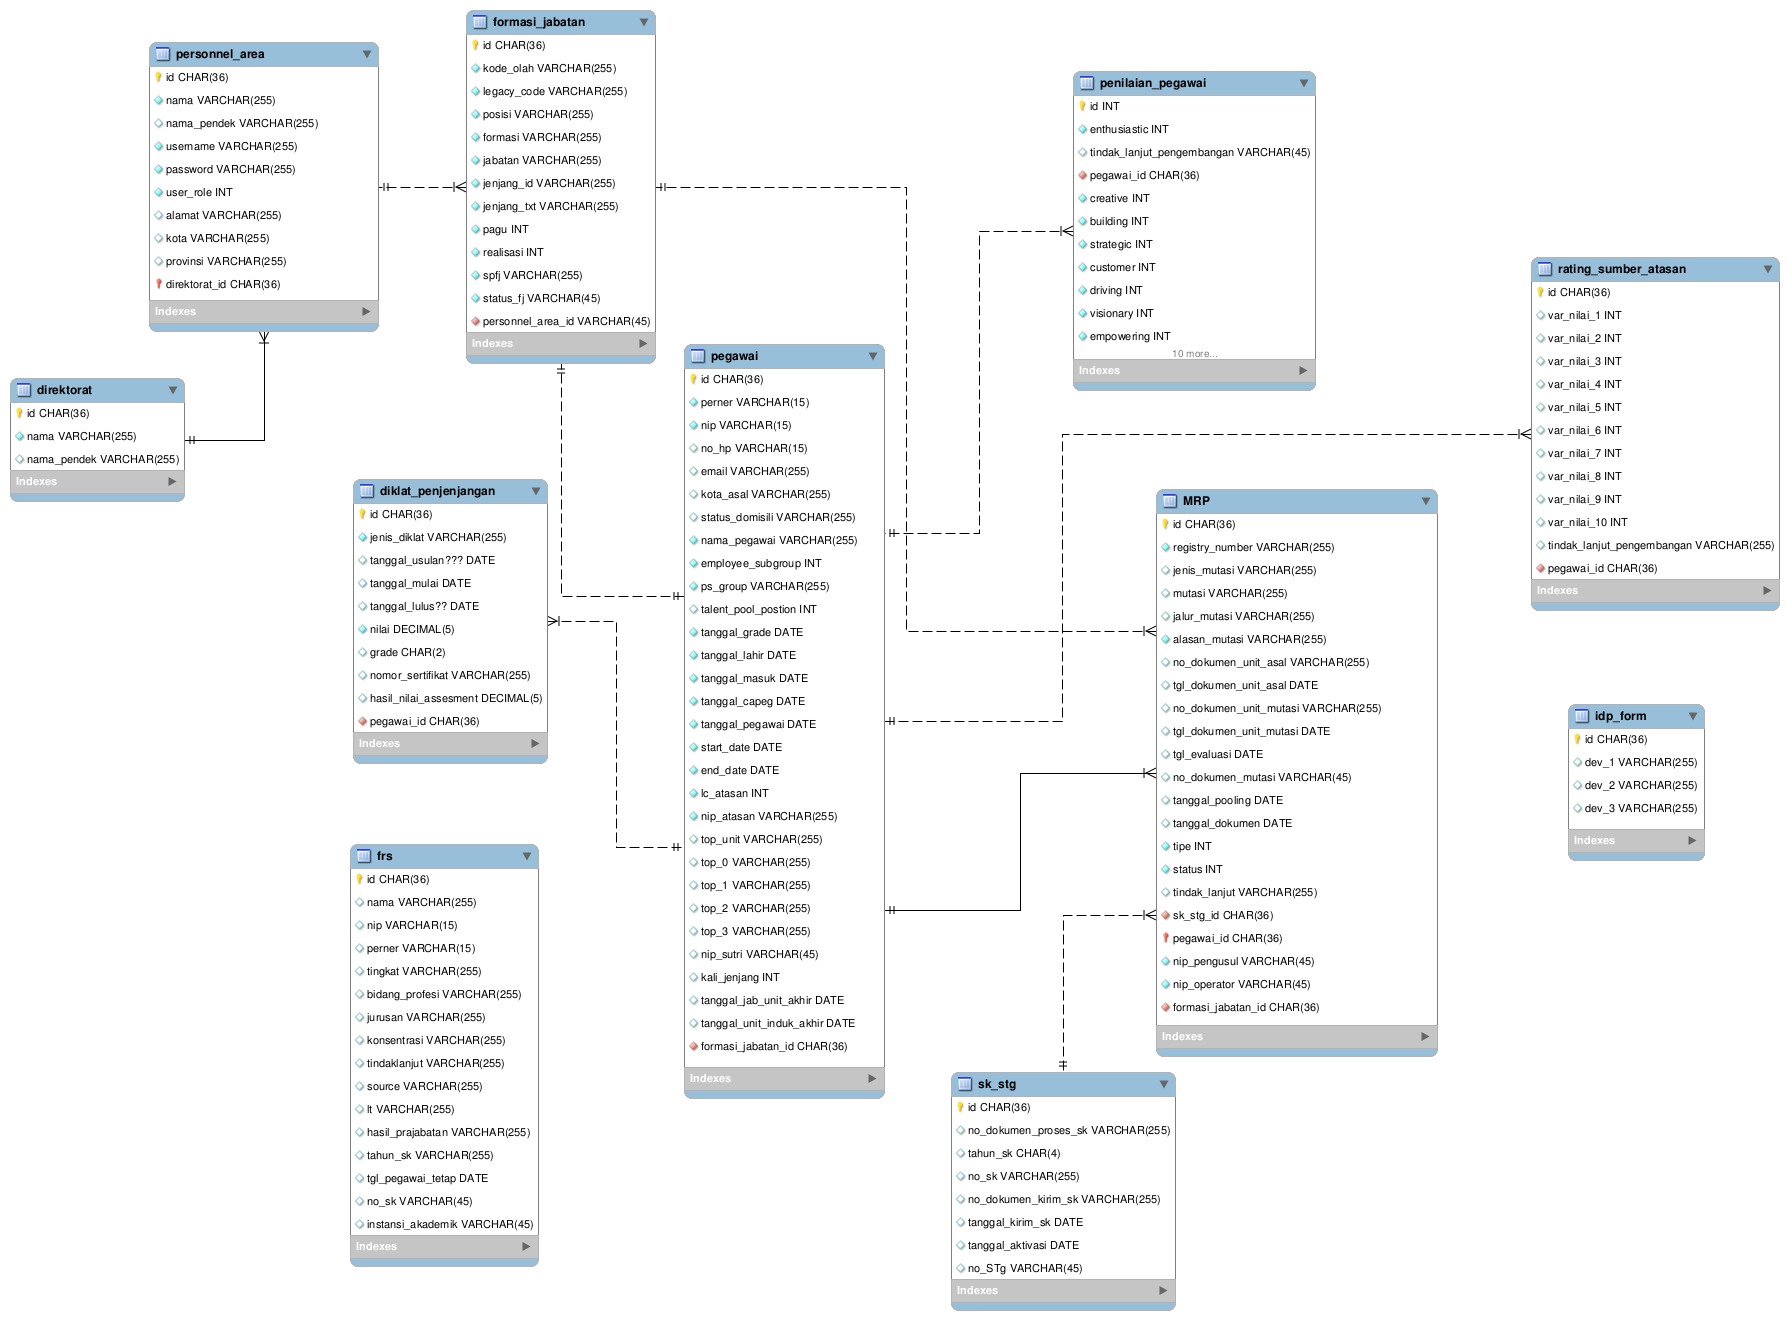
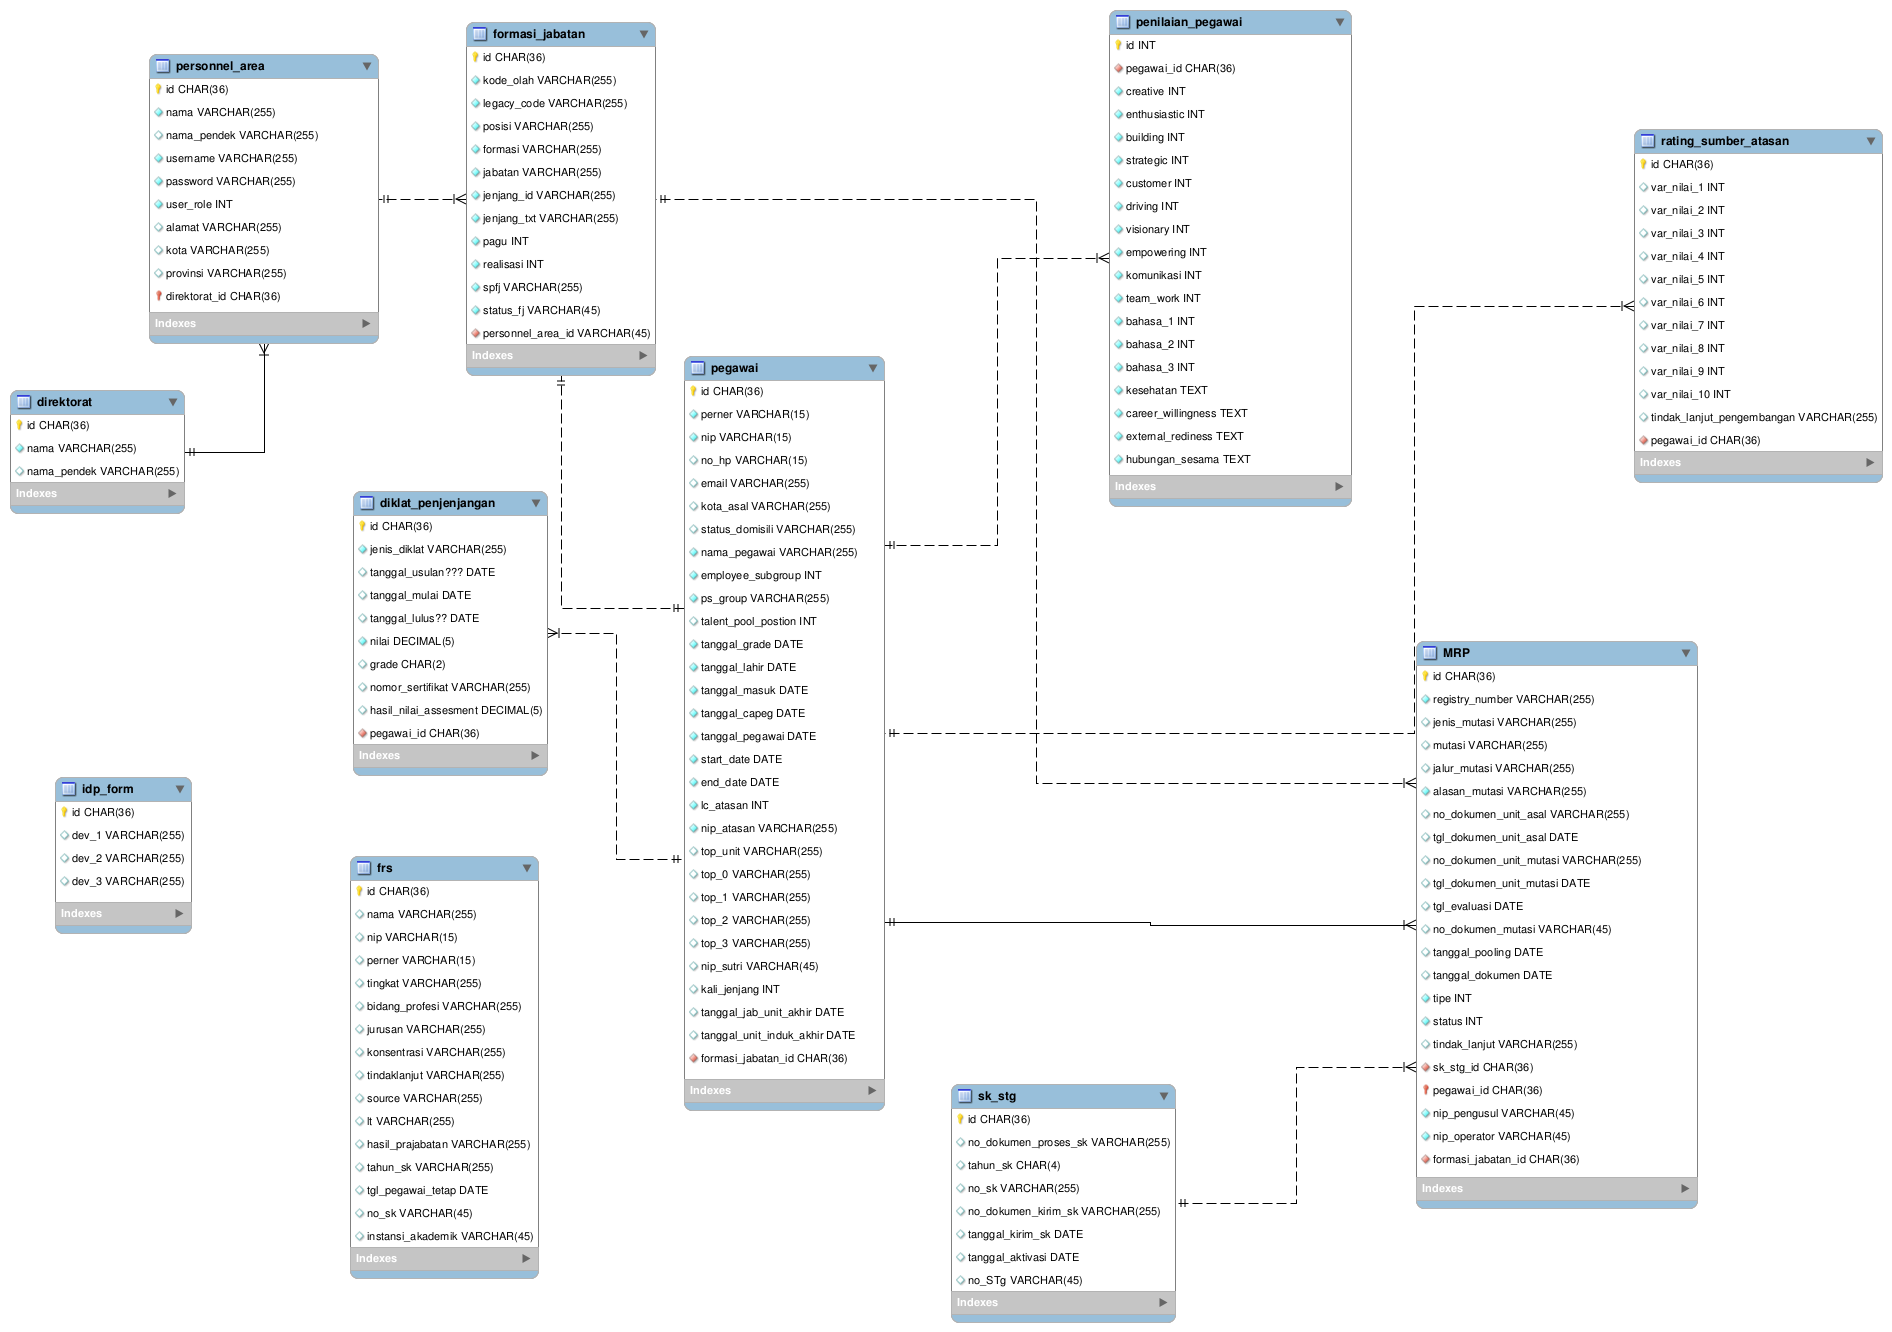
update migration and erd

diff --git a/database/migrations/2018_01_12_042615_create_penilaian_pegawais_table.php b/database/migrations/2018_01_12_042615_create_penilaian_pegawais_table.php
@@ -16,13 +16,30 @@ class CreatePenilaianPegawaisTable extends Migration
     {
         Schema::create($this->tablename, function (Blueprint $table) {
             $table->increments('id');
-            $table->integer('nilai');
-            $table->string('tindak_lanjut_pengembangan');
             $table->char('pegawai_id', 36);
-            $table->integer('aspek_penilaian_id');
+            $table->integer('creative');
+            $table->integer('enthusiastic');
+            $table->integer('building');
+            $table->integer('strategic');
+            $table->integer('customer');
+            $table->integer('driving');
+            $table->integer('visionary');
+            $table->integer('empowering');
+            $table->integer('komunikasi');
+            $table->integer('teamwork');
+            $table->string('bahasa_1');
+            $table->integer('bahasa_1_nilai');
+            $table->string('bahasa_2');
+            $table->integer('bahasa_2_nilai');
+            $table->string('bahasa_3');
+            $table->integer('bahasa_3_nilai');
+            $table->integer('kesehatan');
+            $table->integer('career_willingness');
+            $table->integer('external_rediness');
+            $table->integer('hubungan_sesama');
             $table->timestamps();
 
-            $table->index(['pegawai_id', 'aspek_penilaian_id']);
+            $table->index('pegawai_id');
         });
     }
 

diff --git a/database/migrations/2018_01_09_040959_create_m_r_ps_table.php b/database/migrations/2018_01_09_040959_create_m_r_ps_table.php
@@ -22,7 +22,7 @@ class CreateMRPsTable extends Migration
             $table->string('jalur_mutasi');
             $table->string('no_dokumen_unit_asal');
             $table->date('tgl_dokumen_unit_asal');
-            $table->string('alasan_mutasi');
+            $table->text('alasan_mutasi');
             $table->string('no_dokumen_unit_mutasi')->nullable();
             $table->date('tgl_dokumen_unit_mutasi')->nullable();
             $table->date('tgl_evaluasi')->nullable();
@@ -33,6 +33,8 @@ class CreateMRPsTable extends Migration
             $table->string('tindak_lanjut')->nullable();
             $table->char('formasi_jabatan_id',36)->nullable();
             $table->char('sk_stg_id',36)->nullable();
+            $table->string('nip_pengusul');
+            $table->string('nip_operator');
             $table->char('pegawai_id',36);
             $table->timestamps();
             

diff --git a/database/seeds/DatabaseSeeder.php b/database/seeds/DatabaseSeeder.php
@@ -15,12 +15,11 @@ class DatabaseSeeder extends Seeder
         $this->call(PersonnelAreaSeeder::class);
         $this->call(FormasiJabatanSeeder::class);
         $this->call(PegawaiSeeder::class);
-        $this->call(MRPTableSeeder::class);
+        // $this->call(MRPTableSeeder::class);
         // $this->call(DiklatPenjenjanganSeeder::class);
         // $this->call(SKSTGSeeder::class);
         // $this->call(DiklatPenjenjanganSeeder::class);
         // $this->call(FRSSeeder::class);
-        // $this->call(AspekPenilaianSeeder::class);
         // $this->call(PenilaianPegawaiSeeder::class);
     }
 }
